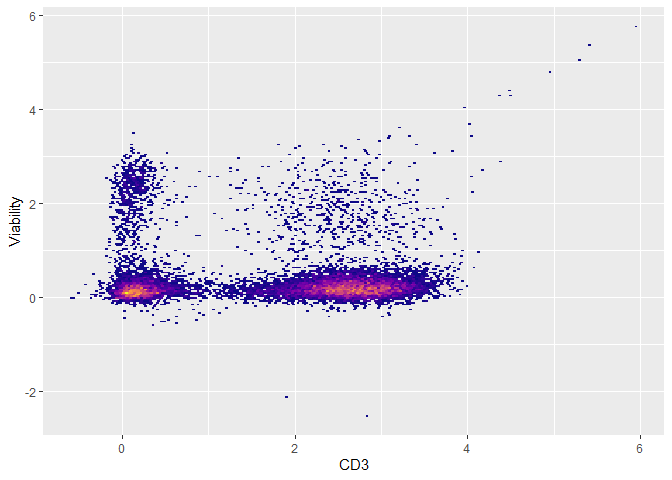
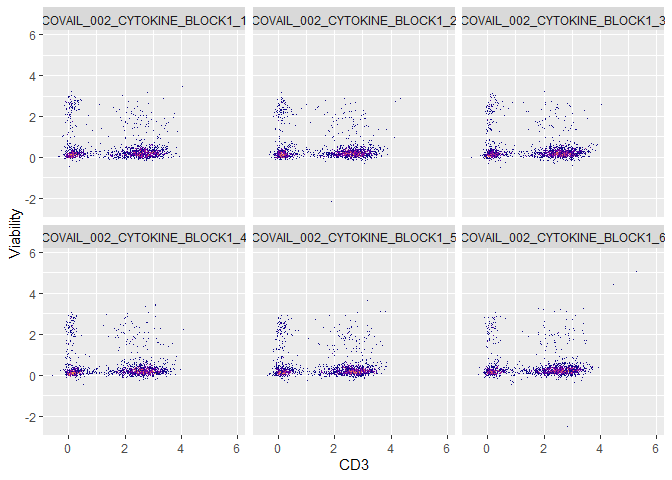
readme fix

diff --git a/README.md b/README.md
@@ -10,11 +10,14 @@
 `flowstate` provides a system for processing, analyzing, and visualizing
 Flow Cytometry Standard (FCS) data.
 
-The primary features of `flowstate`: \* Read and parse .fcs files as
-flowstate objects (S3) \* Perform spectral unmixing (Full Spectrum
-Cytometry/Spectral Cytometry) \* Perform spillover compensation \*
-Transform expression values (MFI/ion counts) \* Visualize primary data
-\* Write FCS version 3.1 compliant files
+The primary features of `flowstate`:
+
+- Read and parse .fcs files as flowstate objects (S3)
+- Perform spectral unmixing (Full Spectrum Cytometry/Spectral Cytometry)
+- Perform spillover compensation/correction
+- Transform expression values (MFI/ion counts)
+- Visualize primary data
+- Write FCS version 3.1 compliant files
 
 ## Installation
 
@@ -58,7 +61,26 @@ flowstate::flowstate.transform(fs,transform.type = 'asinh',cofactor = 5000)
 Visualize:
 
 ``` r
-plot(fs,CD3,Viability) + ggplot2::guides(fill = 'none')
+plot(fs,CD3,Viability) + ggplot2::guides(fill = 'none') + ggplot2::facet_wrap(~sample.id)
 ```
 
 <img src="man/figures/README-plot_CD3_Viability-1.png" width="100%" />
+
+``` r
+##needs compensation correction
+plot(fs,CD4,CD8) + ggplot2::guides(fill = 'none')
+```
+
+<img src="man/figures/README-plot_CD4_CD8-1.png" width="100%" />
+
+``` r
+##update [['spill']] with a correction value
+flowstate::spillover.update.value(fs,CD8,CD4,0.03)
+##apply spillover correction
+flowstate::spillover.apply(fs)
+#> flowstate.object --> transforming...
+##compensated data
+plot(fs,CD4,CD8) + ggplot2::guides(fill = 'none')
+```
+
+<img src="man/figures/README-plot_CD4_CD8-2.png" width="100%" />
